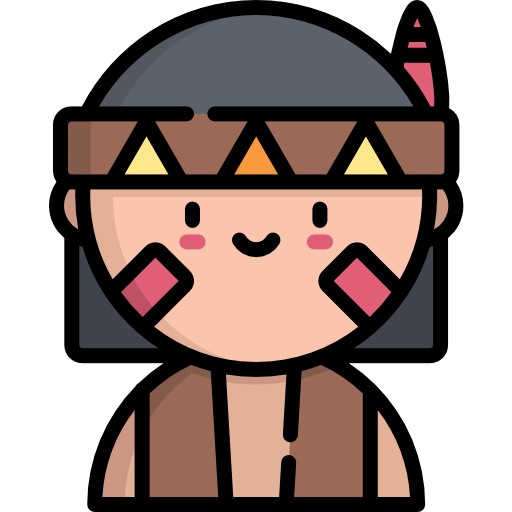
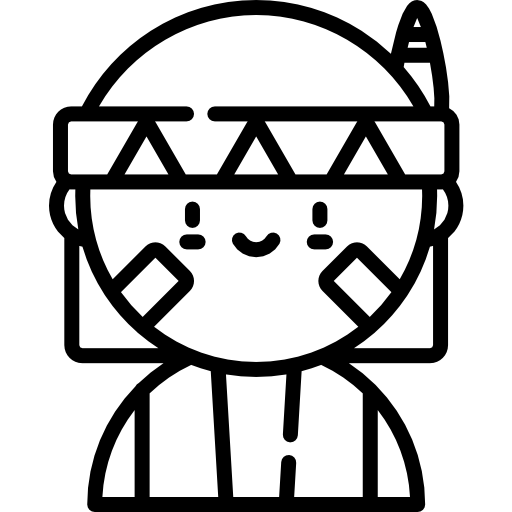
Fixed

diff --git a/index.html b/index.html
@@ -20,7 +20,7 @@
         <!--=============== CABECERA ===============-->
         <header class="header" id="header">
             <nav class="nav container">
-                <a>CultureQuest</a>
+                <h4>CultureQuest</h4>
 
                 <div class="nav__menu" id="nav-menu">
                     <ul class="nav__list">
@@ -160,8 +160,8 @@
             <section class="security section container">
                 <div class="security__container grid">
                     <div class="security__data">
-                        <h2 class="section__title-center">Nos importa tu <br> Bienestar 🧑⚕</h2>
-                        <p class="security__description">Cuando realizas ejercicio en casa reduces el riesgo de contagio contra el Covid-19. Así estarás seguro y sin ninguna preocupación de contagio! 
+                        <h2 class="section__title-center">Nos importan todas las <br> culturas </h2>
+                        <p class="security__description">Nos encargamos de mantener culturas, costumbres y tradiciones de todos los lugares del mundo 
                         </p>
                     </div>
 
@@ -591,7 +591,7 @@
                 </div>
 
                 <div class="footer__content">
-                    <h3 class="footer__title">Nuestra ONGs</h3>
+                    <h3 class="footer__title">Nuestra ONG</h3>
                     <ul class="footer__links">
                         <li><a href="#" class="footer__link">Blog</a></li>
                         <li><a href="#" class="footer__link">Misión</a></li>

diff --git a/assets/css/styles.css b/assets/css/styles.css
@@ -142,6 +142,8 @@ body.dark-theme {
 .svg__img {
   width: 300px;
   justify-self: center;
+  -webkit-filter: grayscale(100%); /* Safari 6.0 - 9.0 */
+  filter: grayscale(100%);
 }
 
 
@@ -552,6 +554,11 @@ a {
   margin-bottom: var(--mb-2);
 }
 
+.nombreEmpresa{
+  color: black;
+  background-color: var(--container-color);
+}
+
 /*=============== BUTTONS ===============*/
 .button {
   display: inline-block;
@@ -651,6 +658,8 @@ a {
    position: relative;
    margin-bottom: 20px;
    overflow: hidden;
+   -webkit-filter: grayscale(100%); /* Safari 6.0 - 9.0 */
+   filter: grayscale(100%);
 }
 .team_container .card .content .imgBx img
 {
@@ -728,6 +737,8 @@ a {
   width: 135px;
   justify-self: center;
   margin-bottom: var(--mb-0-5);
+  -webkit-filter: grayscale(100%); /* Safari 6.0 - 9.0 */
+  filter: grayscale(100%);
 }
 
 /*=============== APP ===============*/
